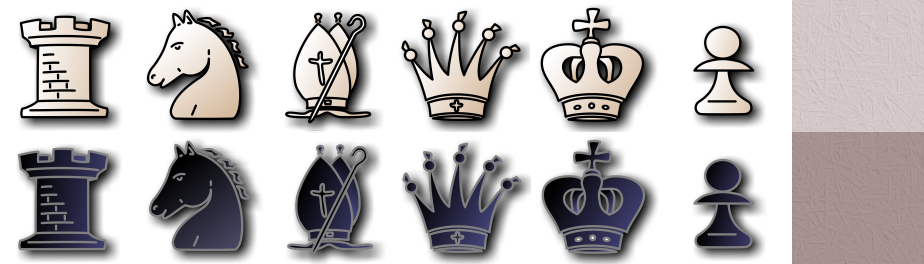
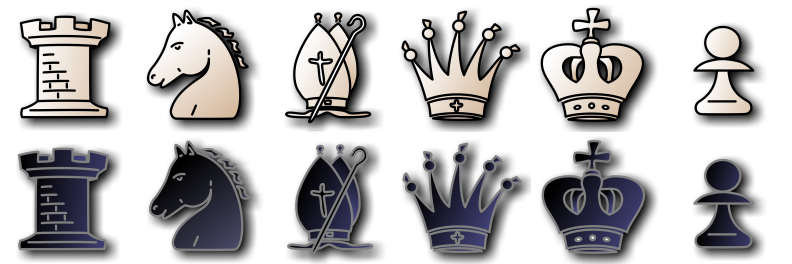
Separate piece and board graphics, optional outline and shadow.
git-svn-id: svn://svn.code.sf.net/p/chessx/code/trunk@707 1de841de-8530-0410-b3ab-d372fa6ee214

diff --git a/src/gui/boardtheme.cpp b/src/gui/boardtheme.cpp
@@ -63,58 +63,76 @@ bool BoardTheme::isValid() const
 	return !m_pieceFilename.isNull();
 }
 
-bool BoardTheme::load(const QString& themeFile, LoadTheme load)
+bool BoardTheme::loadPieces(const QString& pieces, const QString& effect)
 {
-	QString themePath = QString("%1/%2.png").arg(themeDirectory()).arg(themeFile);
+	QString etest = effect.toLower();
+	QString effectPath = "/";
+	if (etest != "plain")
+		effectPath += etest + "/";
+	QString themePath = QString("%1%2%3.png").arg(themeDirectory()).arg(effectPath).arg(pieces);
+
 	QPixmap big;
 	if (!big.load(themePath) || big.width() < 160)
 		return false;
+
 	int realsize = big.height() / 2;
-	if (realsize != big.width() / 7)
+	if (realsize != big.width() / 6)
 		return false;
 
 	/* Cut big theme bitmap into separate pieces */
-	if (load & LoadPieces) {
-		m_originalPiece[WhiteRook] = big.copy(0 * realsize, 0, realsize, realsize);
-		m_originalPiece[WhiteKnight] = big.copy(1 * realsize, 0, realsize, realsize);
-		m_originalPiece[WhiteBishop] = big.copy(2 * realsize, 0, realsize, realsize);
-		m_originalPiece[WhiteQueen] = big.copy(3 * realsize, 0, realsize, realsize);
-		m_originalPiece[WhiteKing] = big.copy(4 * realsize, 0, realsize, realsize);
-		m_originalPiece[WhitePawn] = big.copy(5 * realsize, 0, realsize, realsize);
-		m_originalPiece[BlackRook] = big.copy(0 * realsize, realsize, realsize, realsize);
-		m_originalPiece[BlackKnight] = big.copy(1 * realsize, realsize, realsize, realsize);
-		m_originalPiece[BlackBishop] = big.copy(2 * realsize, realsize, realsize, realsize);
-		m_originalPiece[BlackQueen] = big.copy(3 * realsize, realsize, realsize, realsize);
-		m_originalPiece[BlackKing] = big.copy(4 * realsize, realsize, realsize, realsize);
-		m_originalPiece[BlackPawn] = big.copy(5 * realsize, realsize, realsize, realsize);
-		m_pieceFilename = themePath;
-	}
+	m_originalPiece[WhiteRook] = big.copy(0 * realsize, 0, realsize, realsize);
+	m_originalPiece[WhiteKnight] = big.copy(1 * realsize, 0, realsize, realsize);
+	m_originalPiece[WhiteBishop] = big.copy(2 * realsize, 0, realsize, realsize);
+	m_originalPiece[WhiteQueen] = big.copy(3 * realsize, 0, realsize, realsize);
+	m_originalPiece[WhiteKing] = big.copy(4 * realsize, 0, realsize, realsize);
+	m_originalPiece[WhitePawn] = big.copy(5 * realsize, 0, realsize, realsize);
+	m_originalPiece[BlackRook] = big.copy(0 * realsize, realsize, realsize, realsize);
+	m_originalPiece[BlackKnight] = big.copy(1 * realsize, realsize, realsize, realsize);
+	m_originalPiece[BlackBishop] = big.copy(2 * realsize, realsize, realsize, realsize);
+	m_originalPiece[BlackQueen] = big.copy(3 * realsize, realsize, realsize, realsize);
+	m_originalPiece[BlackKing] = big.copy(4 * realsize, realsize, realsize, realsize);
+	m_originalPiece[BlackPawn] = big.copy(5 * realsize, realsize, realsize, realsize);
+	m_pieceFilename = themePath;
 
-	/* Background */
-	if (load & LoadBoard) {
-		m_originalSquare[0] = big.copy(6 * realsize, 0, realsize, realsize);
-		m_originalSquare[1] = big.copy(6 * realsize, realsize, realsize, realsize);
-		m_boardFilename = themePath;
-	}
-	// Restore previous size
 	if (size().isEmpty())
 		setSize(QSize(realsize, realsize));
-	else
-		setSize(size());
+	else	setSize(size());
+	return true;
+}
+
+bool BoardTheme::loadBoard(const QString& board)
+{
+	if (board.isEmpty()) {
+		m_boardFilename = board;
+		updateSquares();
+		return true;
+	}
+	QString themePath = QString("%1/boards/%2.png").arg(themeDirectory()).arg(board);
+	QPixmap big;
+	if (!big.load(themePath))
+		return false;
+	int realsize = big.height() / 2;
+	if (realsize != big.width())
+		return false;
+
+	m_originalSquare[0] = big.copy(0, 0, realsize, realsize);
+	m_originalSquare[1] = big.copy(0, realsize, realsize, realsize);
+	m_boardFilename = themePath;
+
 	updateSquares();
 	return true;
 }
 
-bool BoardTheme::load(const QString& pieceFile, const QString& boardFile)
+void BoardTheme::configure()
 {
-	if (pieceFile == boardFile)
-		return load(pieceFile, LoadAll);
-	else if (!boardFile.isEmpty())
-		return load(pieceFile, LoadPieces) && load(boardFile, LoadBoard);
-	else {
-		m_boardFilename = QString();
-		return load(pieceFile, LoadPieces);
-	}
+	QString pieceTheme = AppSettings->value("pieceTheme", "default").toString();
+	QString pieceEffect = AppSettings->value("pieceEffect", "Plain").toString();
+	QString boardTheme = AppSettings->value("boardTheme", "default").toString();
+
+	if (!loadPieces(pieceTheme, pieceEffect))
+		if (!loadPieces(pieceTheme, "plain"))
+			loadPieces("merida", "outline");
+	loadBoard(boardTheme);
 }
 
 QSize BoardTheme::size() const

diff --git a/src/gui/preferences.cpp b/src/gui/preferences.cpp
@@ -180,18 +180,32 @@ void PreferencesDialog::restoreSettings()
 	ui.boardFrameCheck->setChecked(AppSettings->value("showFrame", true).toBool());
 	ui.guessMoveCheck->setChecked(AppSettings->value("guessMove", true).toBool());
 	QString pieceTheme = AppSettings->value("pieceTheme", "default").toString();
+	QString pieceEffect = AppSettings->value("pieceEffect", "Plain").toString();
 	QString boardTheme = AppSettings->value("boardTheme", "default").toString();
 	AppSettings->endGroup();
 
-	QStringList themes = QDir(AppSettings->dataPath() + "/themes").entryList(QStringList("*.png"));
+	QString themeDir(AppSettings->dataPath() + "/themes");
+	QStringList themes = QDir(themeDir).entryList(QStringList("*.png"));
 	for (QStringList::Iterator it = themes.begin(); it != themes.end(); ++it) {
 		(*it).truncate((*it).length() - 4);
 		ui.pieceThemeCombo->addItem(*it);
-		ui.boardThemeCombo->addItem(*it);
+	}
+
+	themes = QDir(themeDir+"/boards").entryList(QStringList("*.png"));
+	QStringListIterator it(themes);
+	while (it.hasNext()) {
+		QString trim(it.next());
+		ui.boardThemeCombo->addItem(trim.left(trim.length() - 4));
 	}
 	ui.boardThemeCombo->addItem(tr("[plain colors]"));
+
+	ui.pieceEffect->addItem(tr("Plain"));
+	ui.pieceEffect->addItem(tr("Outline"));
+	ui.pieceEffect->addItem(tr("Shadow"));
+
 	selectInCombo(ui.pieceThemeCombo, pieceTheme);
 	selectInCombo(ui.boardThemeCombo, boardTheme);
+	selectInCombo(ui.pieceEffect, pieceEffect);
 
 	// Read Players settings
 	AppSettings->beginGroup("/Players/");
@@ -233,10 +247,10 @@ void PreferencesDialog::saveSettings()
 	AppSettings->setValue("showFrame", ui.boardFrameCheck->isChecked());
 	AppSettings->setValue("guessMove", ui.guessMoveCheck->isChecked());
 	AppSettings->setValue("pieceTheme", ui.pieceThemeCombo->currentText());
+	AppSettings->setValue("pieceEffect", ui.pieceEffect->currentText());
 	if (ui.boardThemeCombo->currentIndex() != ui.boardThemeCombo->count() - 1)
 		AppSettings->setValue("boardTheme", ui.boardThemeCombo->currentText());
-	else
-		AppSettings->setValue("boardTheme", QString());
+	else	AppSettings->setValue("boardTheme", QString());
 	QStringList colorNames;
 	colorNames << "lightColor" << "darkColor" << "highlightColor" << "frameColor";
 	saveColorList(ui.boardColorsList, colorNames);

diff --git a/src/gui/boardview.cpp b/src/gui/boardview.cpp
@@ -276,24 +276,6 @@ void BoardView::wheelEvent(QWheelEvent* e)
 	emit wheelScrolled(change + e->modifiers());
 }
 
-bool BoardView::setTheme(const QString& pieceFile, const QString& boardFile)
-{
-	bool result = m_theme.load(pieceFile, boardFile);
-	if (!result) {
-		QMessageBox::warning(0, tr("Error"), tr("<qt>Cannot open theme <b>%1</b> from directory:<br>%2</qt>")
-				     .arg(pieceFile).arg(m_theme.themeDirectory()));
-		// If there is no theme, try to load default
-		if (!m_theme.isValid()) {
-			result = m_theme.load("merida");
-			if (result)
-				resizeBoard();
-		}
-	}
-	if (result)
-		update();
-	return result;
-}
-
 void BoardView::setFlipped(bool flipped)
 {
 	m_flipped = flipped;
@@ -317,7 +299,7 @@ void BoardView::configure()
 	m_theme.setColor(BoardTheme::Frame, AppSettings->value("frameColor", "#000000").value<QColor>());
 	QString pieceTheme = AppSettings->value("pieceTheme", "merida").toString();
 	QString boardTheme = AppSettings->value("boardTheme", "merida").toString();
-	setTheme(pieceTheme, boardTheme);
+	m_theme.configure();
 	AppSettings->endGroup();
 	removeGuess();
 	unselectSquare();

diff --git a/src/gui/boardtheme.h b/src/gui/boardtheme.h
@@ -38,10 +38,12 @@ public:
 	enum LoadTheme {LoadBoard = 1, LoadPieces = 2, LoadAll = LoadBoard | LoadPieces};
 	BoardTheme();
 	~BoardTheme();
-	/** Loads theme description from Eboard-compatible PNG file. */
-	bool load(const QString& themeFile, LoadTheme = LoadAll);
-	/** Loads theme description from Eboard-compatible PNG file. */
-	bool load(const QString& pieceFile, const QString& boardFile);
+	/** Reset piece and board selections based on config values */
+	void configure();
+	/** Load piece graphics named by string + effect name */
+	bool loadPieces(const QString& pieces, const QString& effect);
+	/** Load board graphics named by string */
+	bool loadBoard(const QString& board);
 	/** Sets one of the board colors. */
 	void setColor(ColorRole role, const QColor& value);
 	/** @return one of the board colors. */

diff --git a/src/gui/boardview.h b/src/gui/boardview.h
@@ -49,9 +49,6 @@ public:
 	Board board() const;
 	/** @return current theme */
 	const BoardTheme& theme() const;
-	/** Reads new theme from file. If two files are given, pieces are read from the first one,
-	board from the second. */
-	bool setTheme(const QString& themeFile, const QString& boardFile);
 	/** Flips/unflips board. */
 	void setFlipped(bool flipped);
 	/** @return @p true if board is displayed upside down. */
